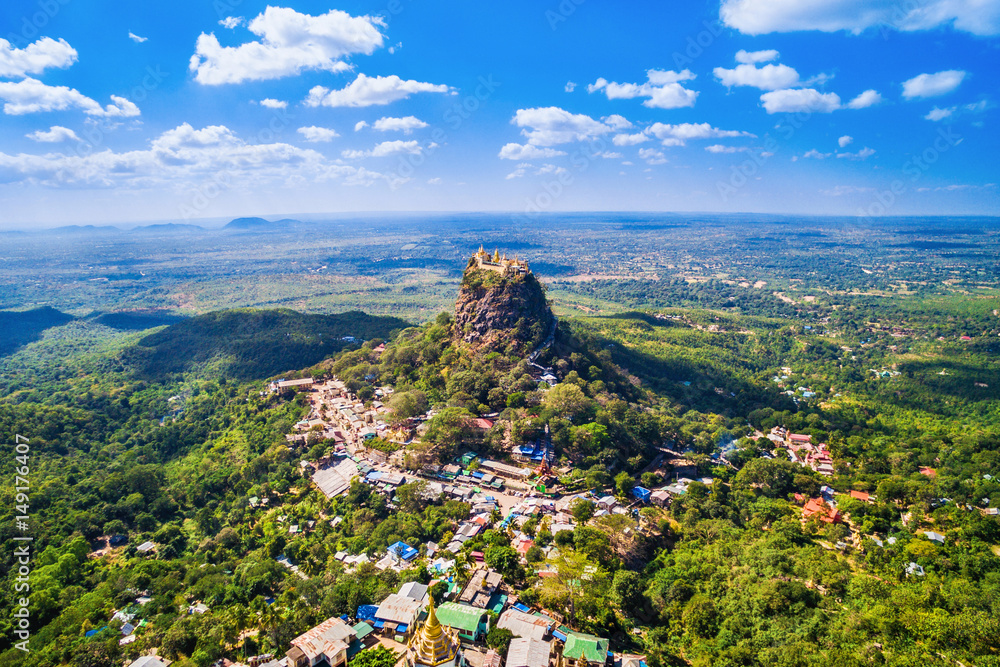
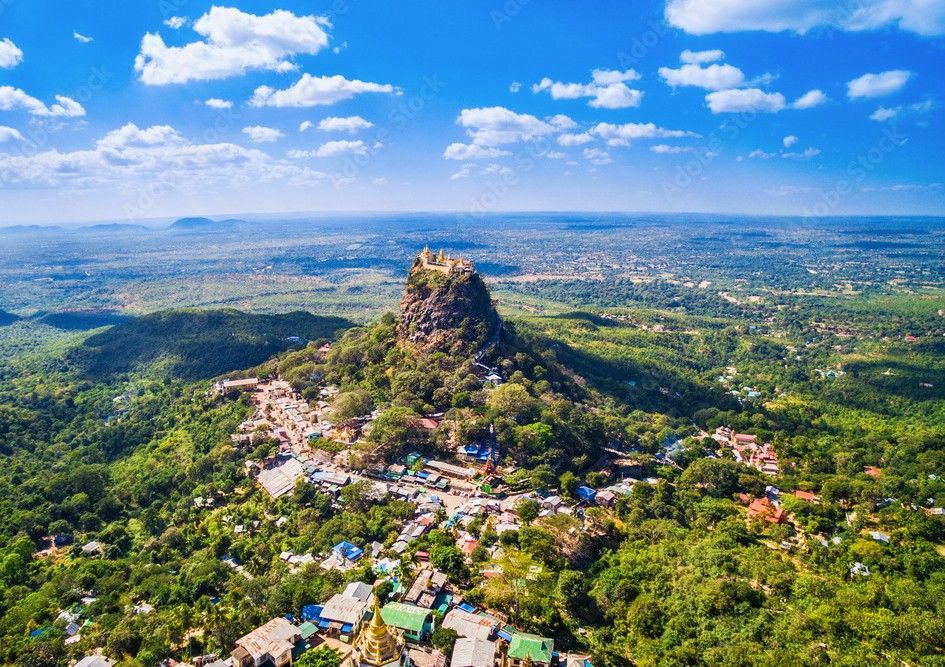
feat: Add Myanmar region image and optimize region asset preloading

diff --git a/data/assetsList.ts b/data/assetsList.ts
@@ -1,1 +1,6 @@
-export const PRELOAD_IMAGES = ['/place-images/mountains/aravalli.webp', '/place-images/mountains/himalaya.avif', '/place-images/mountains/mahendra.jpg', '/place-images/mountains/malaya.jpg', '/place-images/mountains/sahyadri.jpg', '/place-images/mountains/vindhya.webp', '/place-images/rivers/brahmaputra.webp', '/place-images/rivers/gandaki.webp', '/place-images/rivers/ganga.jpg', '/place-images/rivers/Godavari.jpg', '/place-images/rivers/kaveri.jpg', '/place-images/rivers/krishna.jpg', '/place-images/rivers/Mahanadi.jpg', '/place-images/rivers/Narmada.jpg', '/place-images/rivers/saraswati.jpg', '/place-images/rivers/sindhu.jpg', '/place-images/rivers/yamuna.jpg', '/place-images/sacred-cities/amritsar.jpg', '/place-images/sacred-cities/ayodhya.jpg', '/place-images/sacred-cities/dwarka.jpg', '/place-images/sacred-cities/gaya.jpg', '/place-images/sacred-cities/indraprastha.jpg', '/place-images/sacred-cities/Kanchi.jpg', '/place-images/sacred-cities/mathura.jpg', '/place-images/sacred-cities/nagpur.jpg', '/place-images/sacred-cities/patliputra.jpg', '/place-images/sacred-cities/prayag.webp', '/place-images/sacred-cities/puri.jpg', '/place-images/sacred-cities/somnath.jpg', '/place-images/sacred-cities/takshashila.jpg', '/place-images/sacred-cities/ujjain.webp', '/place-images/sacred-cities/vaishali.jpg', '/place-images/sacred-cities/vijaynagar.jpg'];
+export const PRELOAD_IMAGES = [
+  '/place-images/mountains/aravalli.webp', '/place-images/mountains/himalaya.avif', '/place-images/mountains/mahendra.jpg', '/place-images/mountains/malaya.jpg', '/place-images/mountains/sahyadri.jpg', '/place-images/mountains/vindhya.webp',
+  '/place-images/rivers/brahmaputra.webp', '/place-images/rivers/gandaki.webp', '/place-images/rivers/ganga.jpg', '/place-images/rivers/Godavari.jpg', '/place-images/rivers/kaveri.jpg', '/place-images/rivers/krishna.jpg', '/place-images/rivers/Mahanadi.jpg', '/place-images/rivers/Narmada.jpg', '/place-images/rivers/saraswati.jpg', '/place-images/rivers/sindhu.jpg', '/place-images/rivers/yamuna.jpg',
+  '/place-images/sacred-cities/amritsar.jpg', '/place-images/sacred-cities/ayodhya.jpg', '/place-images/sacred-cities/dwarka.jpg', '/place-images/sacred-cities/gaya.jpg', '/place-images/sacred-cities/indraprastha.jpg', '/place-images/sacred-cities/Kanchi.jpg', '/place-images/sacred-cities/mathura.jpg', '/place-images/sacred-cities/nagpur.jpg', '/place-images/sacred-cities/patliputra.jpg', '/place-images/sacred-cities/prayag.webp', '/place-images/sacred-cities/puri.jpg', '/place-images/sacred-cities/somnath.jpg', '/place-images/sacred-cities/takshashila.jpg', '/place-images/sacred-cities/ujjain.webp', '/place-images/sacred-cities/vaishali.jpg', '/place-images/sacred-cities/vijaynagar.jpg',
+  '/place-images/regions/afghanistan.jpg', '/place-images/regions/bangladesh.jpg', '/place-images/regions/bhutan.jpg', '/place-images/regions/china.jpg', '/place-images/regions/myanmar.jpg', '/place-images/regions/nepal.jpg', '/place-images/regions/pakistan.png', '/place-images/regions/srilanka.jpg'
+];
